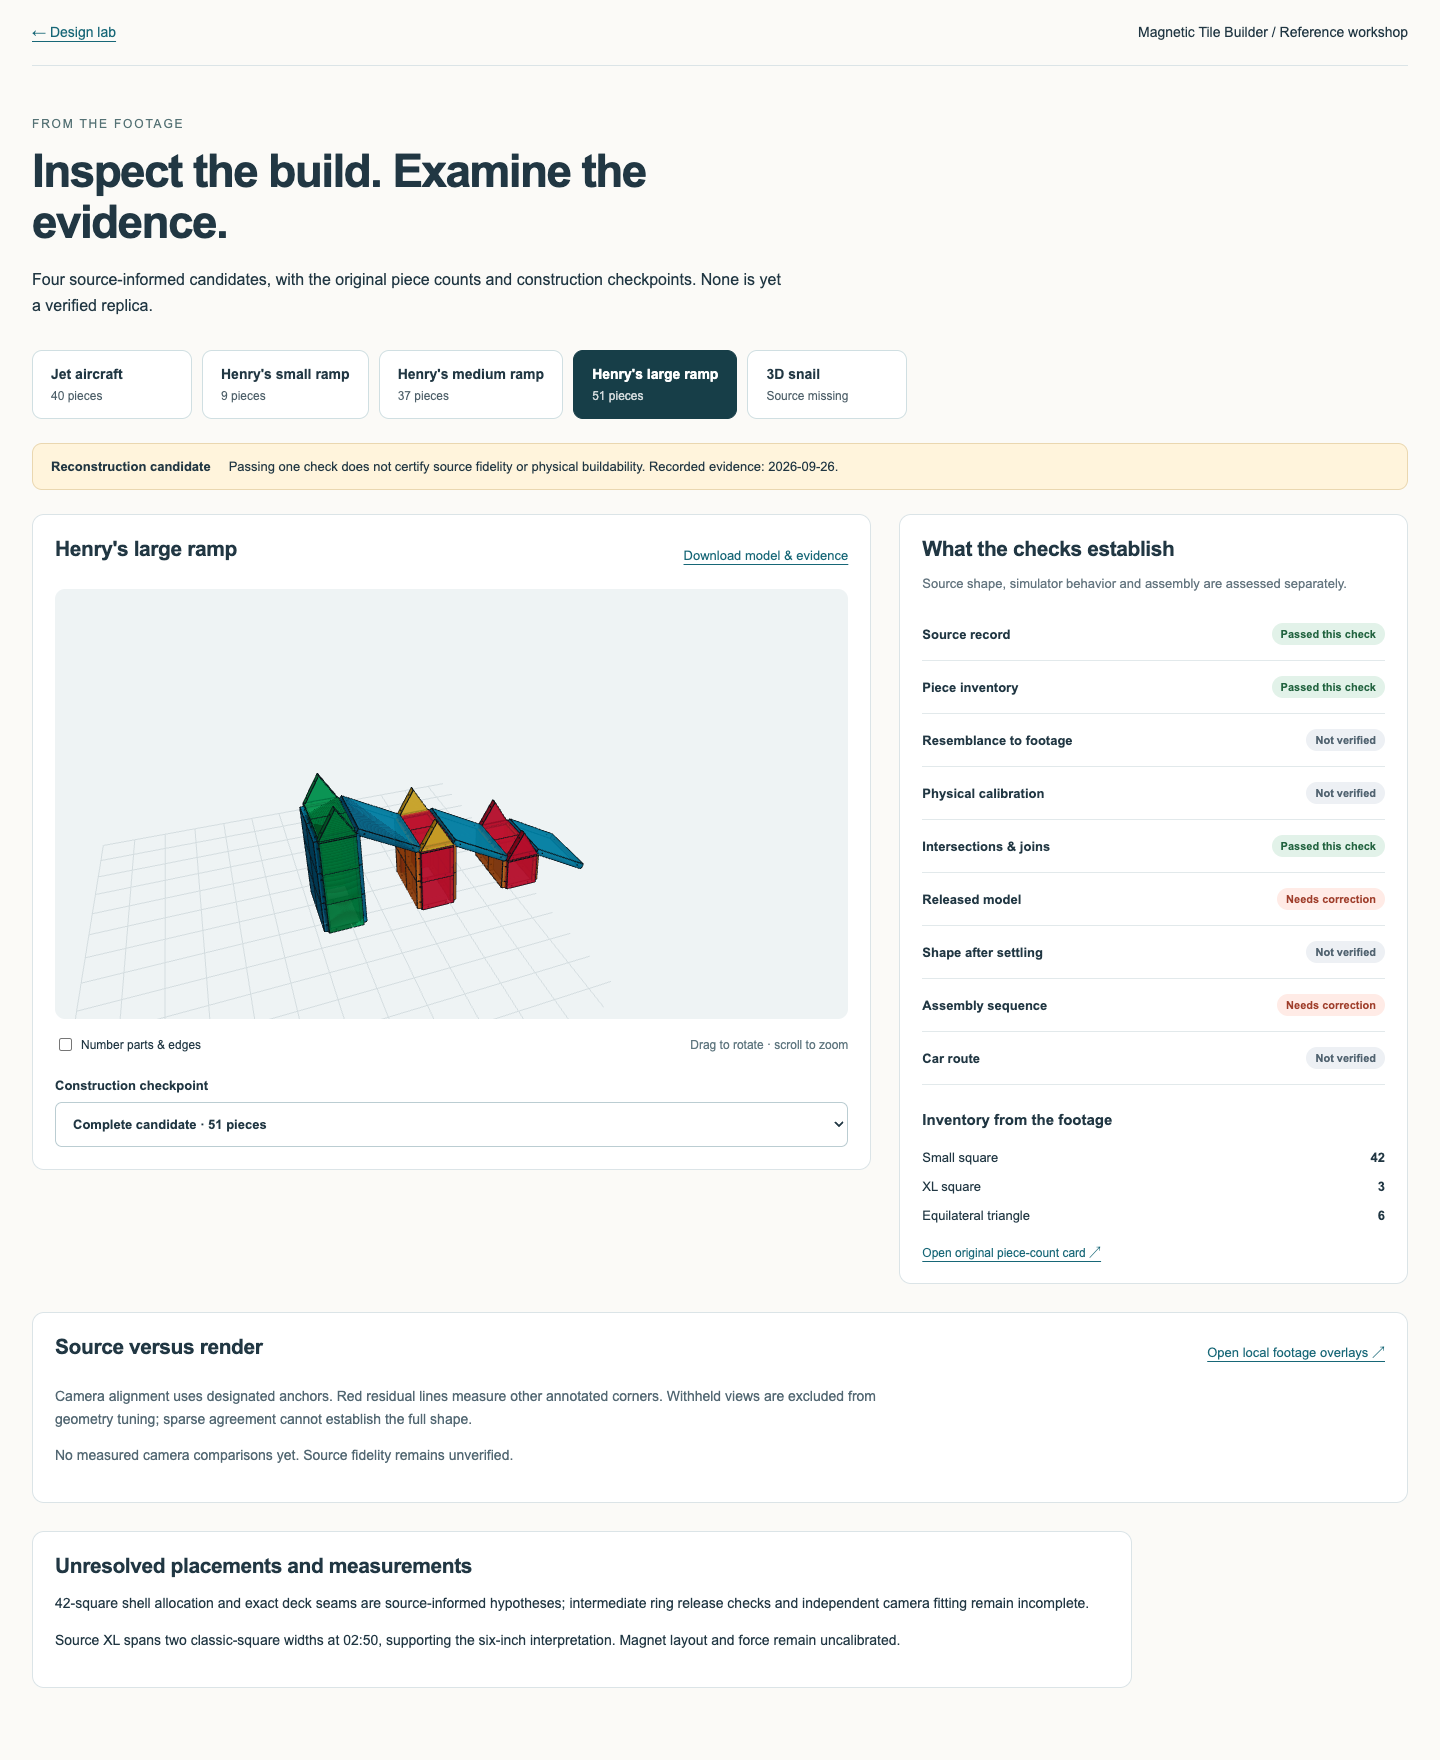
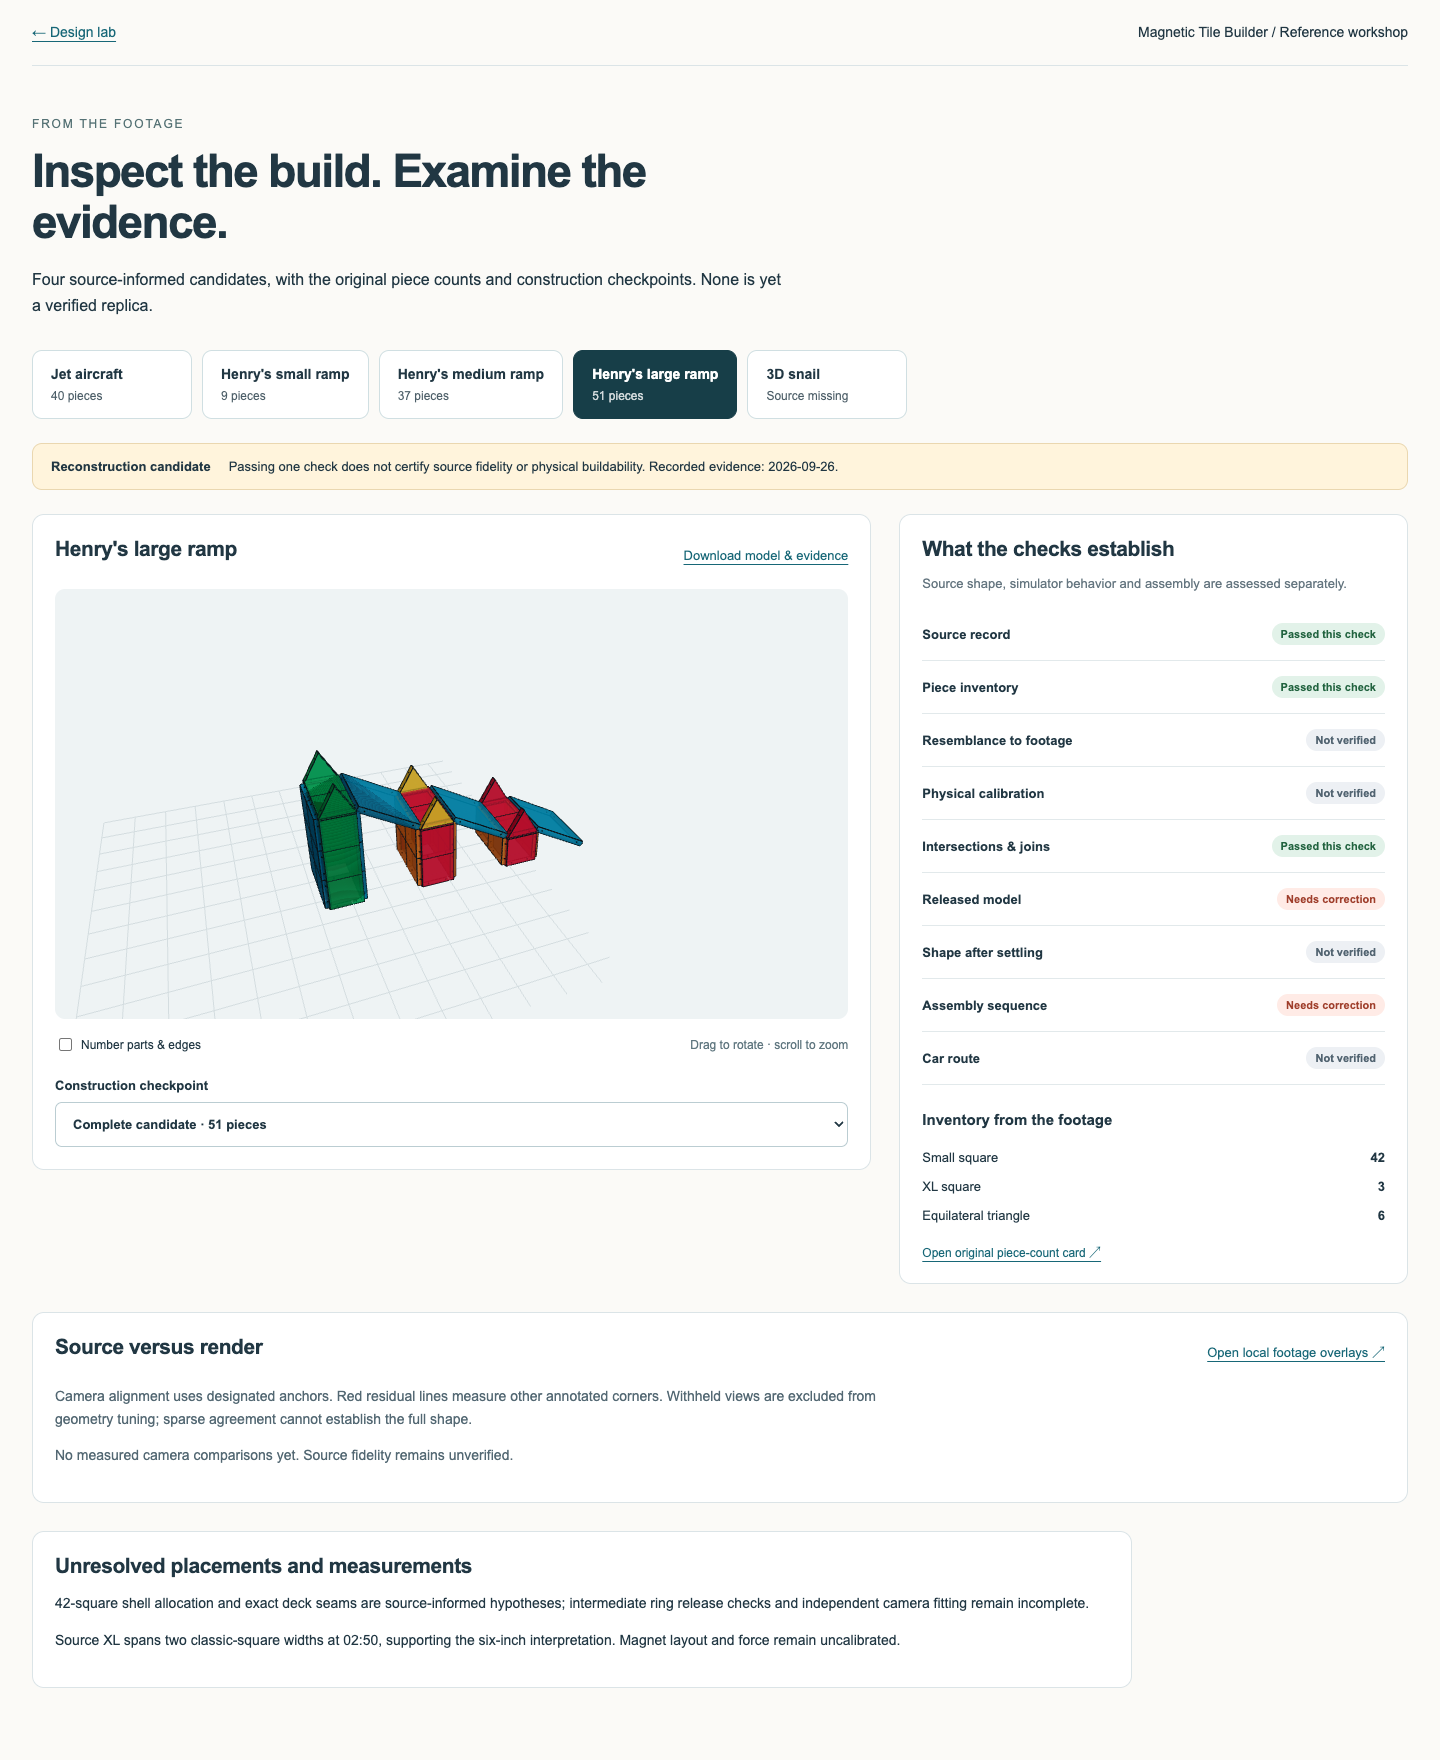
Center reference views on the complete model bounds

Changed region(s): [[0.1875, 0.4375, 0.4062, 0.5312]]

diff --git a/app/components/TileViewer.tsx b/app/components/TileViewer.tsx
@@ -84,7 +84,9 @@ export function TileViewer({ build, visibleStep, lanes = [], trials = [], playba
       ? [viewingBox.center.x + build.bounds.width * 0.05, loweredCenterY + cameraDistance * 1.05, viewingBox.center.z - cameraDistance * 0.08]
       : [viewingBox.center.x + cameraDistance * 0.72, loweredCenterY + cameraDistance * 0.38, viewingBox.center.z + cameraDistance * 0.82];
   const cameraTarget: [number, number, number] =
-    build.family === "aircraft"
+    viewDirection
+      ? [viewingBox.center.x, loweredCenterY, viewingBox.center.z]
+      : build.family === "aircraft"
       ? [viewingBox.center.x, loweredCenterY + build.bounds.height * 0.04, viewingBox.center.z - 0.2]
       : [viewingBox.center.x, loweredCenterY + build.bounds.height * 0.2, viewingBox.center.z];
 
